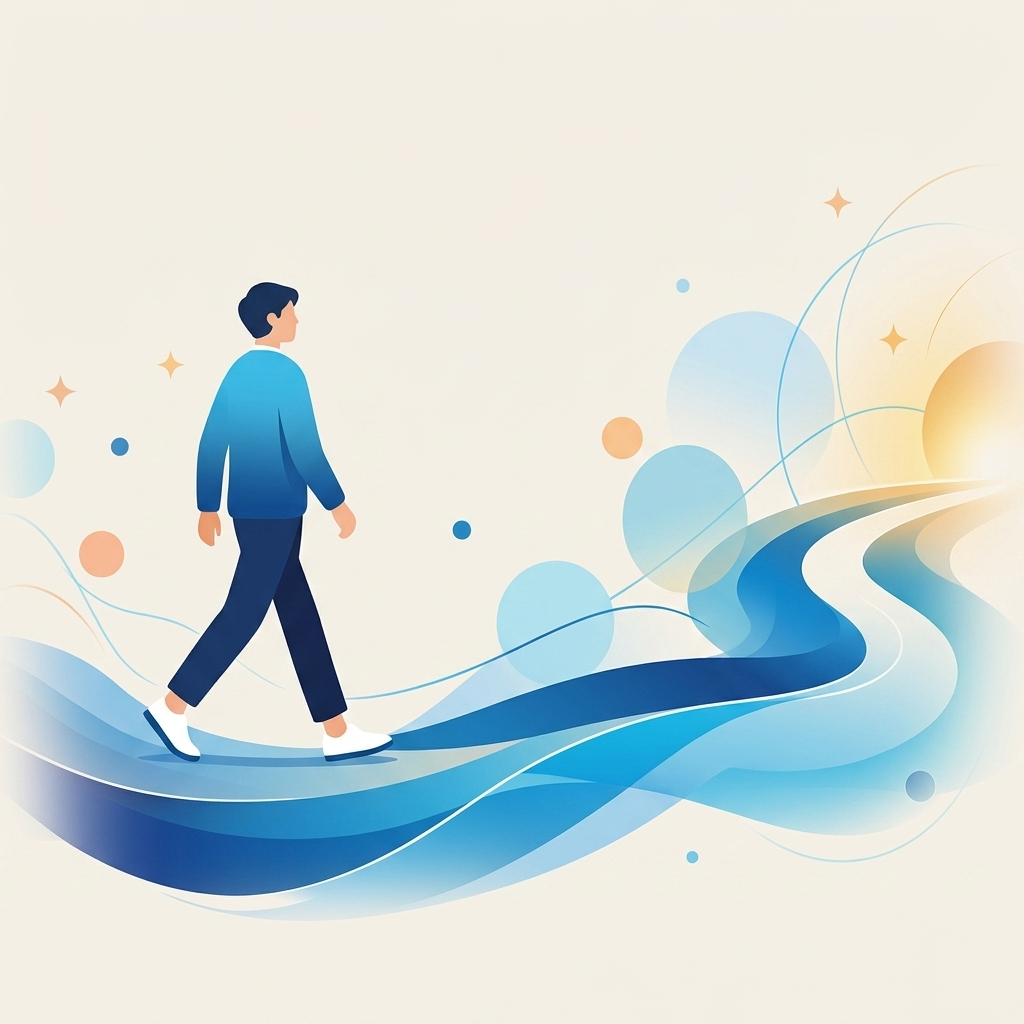
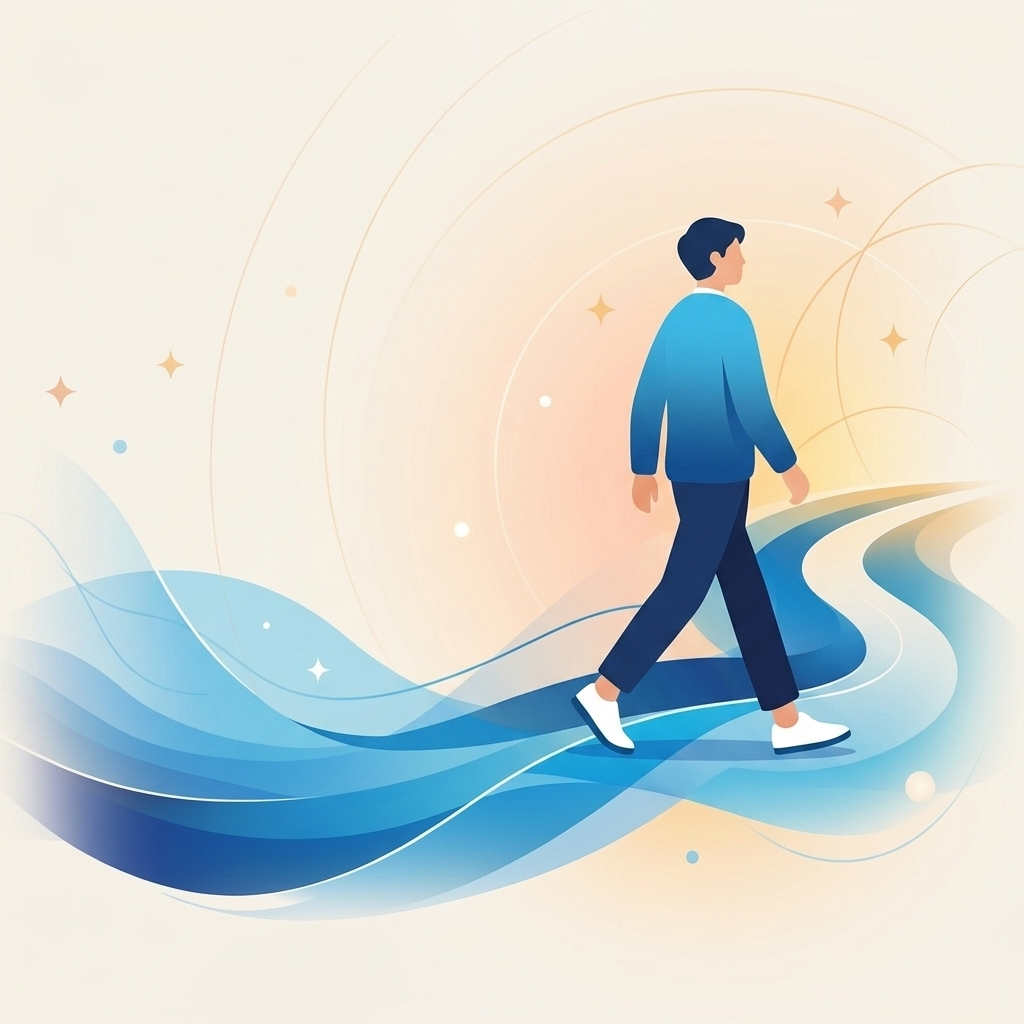
✨ Complete hero redesign — unified composition with SVG path, decorative elements, larger illustration

diff --git a/src/app/features/home/home.scss b/src/app/features/home/home.scss
@@ -245,25 +245,25 @@
 }
 
 // ═══════════════════════════════
-// HERO
+// HERO — Unified Composition
 // ═══════════════════════════════
 .hero {
   position: relative;
   min-height: 100vh;
   display: flex; align-items: center; justify-content: center;
-  padding: 120px 28px 100px;
+  padding: 120px 28px 80px;
   overflow: hidden;
 }
 
 .hero-inner {
   display: grid;
-  grid-template-columns: 1fr 1fr;
-  gap: 40px;
+  grid-template-columns: 45% 55%;
+  gap: 0;
   align-items: center;
-  max-width: 1160px;
+  max-width: 1200px;
   width: 100%;
   position: relative;
-  z-index: 2;
+  z-index: 3;
 
   @media (max-width: 960px) {
     grid-template-columns: 1fr;
@@ -277,8 +277,8 @@
 
 .hero-grid-dots {
   position: absolute; inset: 0;
-  background-image: radial-gradient(circle, rgba($color-text-muted, 0.08) 1px, transparent 1px);
-  background-size: 32px 32px;
+  background-image: radial-gradient(circle, rgba($color-text-muted, 0.06) 1px, transparent 1px);
+  background-size: 40px 40px;
 }
 
 .hero-orb {
@@ -286,34 +286,107 @@
   filter: blur(150px);
 
   &.orb-1 {
-    width: 700px; height: 700px;
-    background: $color-accent-primary;
-    opacity: 0.12; top: -250px; right: -200px;
-    animation: floatOrb 18s ease-in-out infinite;
+    width: 600px; height: 600px;
+    background: radial-gradient(circle, rgba($color-accent-secondary, 0.15), transparent 70%);
+    top: -200px; right: 5%;
   }
   &.orb-2 {
-    width: 500px; height: 500px;
-    background: $color-accent-secondary;
-    opacity: 0.10; bottom: -150px; left: -150px;
-    animation: floatOrb 22s ease-in-out infinite reverse;
-  }
-  &.orb-3 {
-    width: 350px; height: 350px;
-    background: $color-accent-success;
-    opacity: 0.08; top: 35%; left: 45%;
-    animation: floatOrb 15s ease-in-out infinite;
+    width: 400px; height: 400px;
+    background: radial-gradient(circle, rgba(232, 168, 56, 0.08), transparent 70%);
+    bottom: -100px; left: 20%;
   }
 }
 
-@keyframes floatOrb {
-  0%, 100% { transform: translate(0, 0) scale(1); }
-  33% { transform: translate(35px, -30px) scale(1.06); }
-  66% { transform: translate(-25px, 20px) scale(0.94); }
+// — Decorative Elements (depth plane 3) —
+.hero-deco {
+  position: absolute;
+  pointer-events: none;
+  z-index: 1;
+}
+
+.deco-line-1 {
+  width: 280px; height: 280px;
+  border: 1px solid rgba($color-accent-secondary, 0.08);
+  border-radius: 50%;
+  top: 15%; left: 30%;
+}
+
+.deco-line-2 {
+  width: 180px; height: 180px;
+  border: 1px solid rgba($color-accent-primary, 0.06);
+  border-radius: 50%;
+  top: 25%; right: 15%;
+}
+
+.deco-star {
+  font-size: 0.65rem;
+  color: rgba($color-accent-primary, 0.18);
+  animation: twinkle 4s ease-in-out infinite;
+
+  &.star-1 { top: 18%; left: 12%; animation-delay: 0s; }
+  &.star-2 { top: 30%; left: 42%; animation-delay: 1.2s; color: rgba($color-accent-secondary, 0.15); }
+  &.star-3 { top: 12%; right: 25%; animation-delay: 2s; font-size: 0.5rem; }
+  &.star-4 { bottom: 30%; left: 35%; animation-delay: 0.7s; color: rgba(232, 168, 56, 0.2); }
+}
+
+@keyframes twinkle {
+  0%, 100% { opacity: 0.3; transform: scale(1); }
+  50% { opacity: 1; transform: scale(1.3); }
+}
+
+.deco-dot {
+  border-radius: 50%;
+
+  &.dot-1 {
+    width: 4px; height: 4px;
+    background: rgba($color-accent-secondary, 0.2);
+    top: 22%; left: 48%;
+  }
+  &.dot-2 {
+    width: 3px; height: 3px;
+    background: rgba($color-accent-primary, 0.15);
+    top: 40%; left: 25%;
+  }
+  &.dot-3 {
+    width: 5px; height: 5px;
+    background: rgba(232, 168, 56, 0.15);
+    bottom: 25%; right: 30%;
+  }
+}
+
+.deco-halo {
+  border-radius: 50%;
+  border: 1px solid transparent;
+
+  &.halo-1 {
+    width: 120px; height: 120px;
+    background: radial-gradient(circle, rgba($color-accent-secondary, 0.04), transparent 70%);
+    top: 35%; left: 8%;
+  }
+  &.halo-2 {
+    width: 80px; height: 80px;
+    background: radial-gradient(circle, rgba(232, 168, 56, 0.05), transparent 70%);
+    top: 20%; right: 35%;
+  }
+}
+
+// — SVG Path (connects CTA to illustration) —
+.hero-path {
+  position: absolute;
+  bottom: 0; left: 0; right: 0;
+  height: 60%;
+  z-index: 2;
+  pointer-events: none;
+
+  svg {
+    width: 100%;
+    height: 100%;
+  }
 }
 
 .hero-content {
-  position: relative; z-index: 2;
-  max-width: 600px;
+  position: relative; z-index: 4;
+  max-width: 540px;
 
   @media (max-width: 960px) {
     margin: 0 auto;
@@ -470,26 +543,37 @@
   background: $color-border-default;
 }
 
-// Hero Illustration
+// — Hero Visual (55% column, illustration as focal point) —
 .hero-visual {
   display: flex;
   justify-content: center;
   align-items: center;
   position: relative;
+  z-index: 3;
+  margin-right: -60px;
+
+  @media (max-width: 960px) {
+    margin-right: 0;
+    margin-top: 40px;
+  }
+}
+
+.hero-illustration {
+  width: 110%;
+  max-width: 620px;
+  height: auto;
+  object-fit: contain;
+  position: relative;
+
+  @media (max-width: 960px) {
+    width: 90%;
+    max-width: 400px;
+  }
 }
 
 .hero-illustration-wrapper {
   position: relative;
   width: 100%;
-  max-width: 500px;
-}
-
-.hero-illustration {
-  width: 100%;
-  height: auto;
-  object-fit: contain;
-  position: relative;
-  z-index: 2;
 }
 
 .hero-illustration-glow {

diff --git a/src/app/features/home/home.ts b/src/app/features/home/home.ts
@@ -50,9 +50,56 @@ import { RouterLink } from '@angular/router';
         <div class="hero-bg">
           <div class="hero-orb orb-1"></div>
           <div class="hero-orb orb-2"></div>
-          <div class="hero-orb orb-3"></div>
           <div class="hero-grid-dots"></div>
+          <!-- Decorative elements that cross behind text -->
+          <div class="hero-deco deco-line-1"></div>
+          <div class="hero-deco deco-line-2"></div>
+          <div class="hero-deco deco-star star-1">✦</div>
+          <div class="hero-deco deco-star star-2">✦</div>
+          <div class="hero-deco deco-star star-3">✧</div>
+          <div class="hero-deco deco-star star-4">✦</div>
+          <div class="hero-deco deco-dot dot-1"></div>
+          <div class="hero-deco deco-dot dot-2"></div>
+          <div class="hero-deco deco-dot dot-3"></div>
+          <div class="hero-deco deco-halo halo-1"></div>
+          <div class="hero-deco deco-halo halo-2"></div>
         </div>
+
+        <!-- Flowing path that connects CTA to illustration -->
+        <div class="hero-path">
+          <svg viewBox="0 0 1200 600" preserveAspectRatio="none" xmlns="http://www.w3.org/2000/svg">
+            <defs>
+              <linearGradient id="pathGrad1" x1="0%" y1="0%" x2="100%" y2="0%">
+                <stop offset="0%" stop-color="#009fe3" stop-opacity="0.06"/>
+                <stop offset="40%" stop-color="#084983" stop-opacity="0.15"/>
+                <stop offset="100%" stop-color="#009fe3" stop-opacity="0.08"/>
+              </linearGradient>
+              <linearGradient id="pathGrad2" x1="0%" y1="0%" x2="100%" y2="0%">
+                <stop offset="0%" stop-color="#084983" stop-opacity="0.04"/>
+                <stop offset="50%" stop-color="#009fe3" stop-opacity="0.10"/>
+                <stop offset="100%" stop-color="#33B2E8" stop-opacity="0.06"/>
+              </linearGradient>
+              <linearGradient id="pathGrad3" x1="0%" y1="0%" x2="100%" y2="0%">
+                <stop offset="0%" stop-color="#33B2E8" stop-opacity="0.03"/>
+                <stop offset="60%" stop-color="#084983" stop-opacity="0.08"/>
+                <stop offset="100%" stop-color="#009fe3" stop-opacity="0.04"/>
+              </linearGradient>
+            </defs>
+            <!-- Layer 1: Wide, soft -->
+            <path d="M-50,420 C150,380 250,480 450,400 C650,320 750,360 950,300 C1050,270 1150,290 1250,260" 
+                  fill="none" stroke="url(#pathGrad3)" stroke-width="120" stroke-linecap="round"/>
+            <!-- Layer 2: Medium -->
+            <path d="M-50,440 C200,390 300,490 500,380 C700,280 800,340 1000,280 C1100,250 1200,270 1300,240" 
+                  fill="none" stroke="url(#pathGrad1)" stroke-width="70" stroke-linecap="round"/>
+            <!-- Layer 3: Thin, sharp -->
+            <path d="M-20,450 C180,400 320,500 520,390 C720,290 820,350 1020,290 C1120,260 1220,275 1300,250" 
+                  fill="none" stroke="url(#pathGrad2)" stroke-width="3" stroke-linecap="round"/>
+            <!-- Layer 4: Accent line -->
+            <path d="M50,460 C220,420 350,510 540,400 C740,300 830,355 1030,295" 
+                  fill="none" stroke="url(#pathGrad1)" stroke-width="1.5" stroke-linecap="round" stroke-dasharray="8 12"/>
+          </svg>
+        </div>
+
         <div class="hero-inner">
           <div class="hero-content reveal-left">
             <div class="hero-badge-row">
@@ -94,10 +141,9 @@ import { RouterLink } from '@angular/router';
               </div>
             </div>
           </div>
+
           <div class="hero-visual reveal-right delay-1">
-            <div class="hero-illustration-wrapper">
-              <img src="assets/images/home/ilustracion.png" alt="Evolución clínica" class="hero-illustration" />
-            </div>
+            <img src="assets/images/home/ilustracion.png" alt="Evolución clínica" class="hero-illustration" />
           </div>
         </div>
       </section>